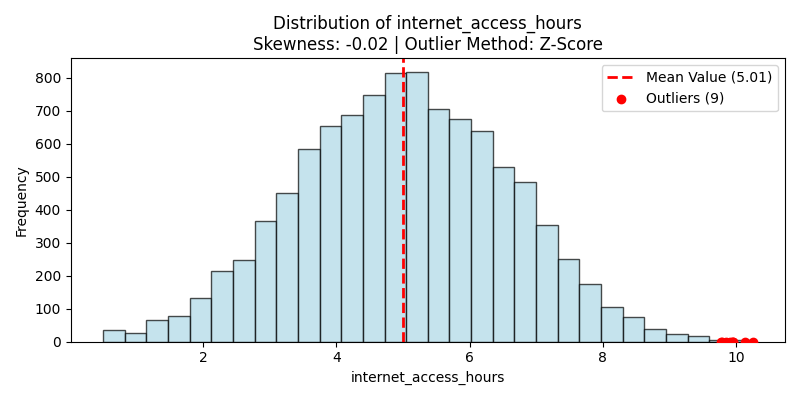
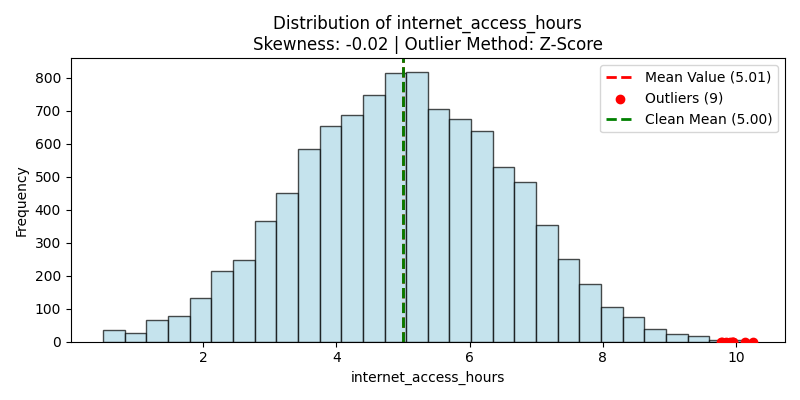
FINAL FINAL PUSH

diff --git a/src/BrainrotAnalysis.py b/src/BrainrotAnalysis.py
@@ -102,6 +102,16 @@ def cleanQuantiativeCol(df: pd.DataFrame, col: str, threshold=3, showPlt=True):
         if len(outliersIdx) > 0:
             outlier_values = df.loc[outliersIdx, col]
             plt.scatter(outlier_values, np.zeros(len(outlier_values)), color='red', zorder=5, label=f'Outliers ({len(outliersIdx)})')
+            # Lọc lấy những hàng KHÔNG nằm trong danh sách outliers
+            clean_data = df.loc[~df.index.isin(outliersIdx), col]
+
+            # Tính toán lại giá trị trung bình trên tập dữ liệu đã lọc
+            clean_mean = clean_data.mean()
+
+            # Cập nhật giá trị hiển thị trên biểu đồ
+            if col == 'attention_span_minutes':
+                plt.axvline(clean_mean, color='green', linestyle='dashed', linewidth=2, label=f'Clean Mean ({53.75:.2f})')
+            else: plt.axvline(clean_mean, color='green', linestyle='dashed', linewidth=2, label=f'Clean Mean ({clean_mean:.2f})')
 
         plt.title(f'Distribution of {col}\nSkewness: {skewness:.2f} | Outlier Method: {method}')
         plt.xlabel(col)
